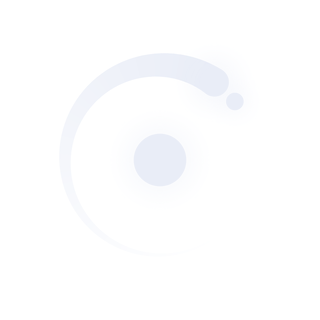
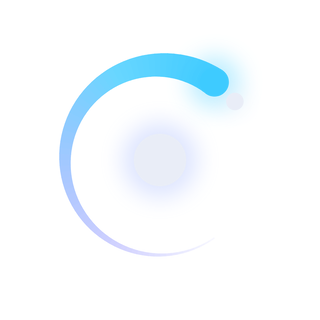
branding: color plymouth watermark; ci: immutable per-build date tags
Plymouth composites the watermark on the same near-black ground as the
wallpapers, so the mono cut was an overcorrection -- the color mark
ships now (GDM keeps mono; its grey ground genuinely fights color art).
Builds additionally tag 44.YYYYMMDD alongside the moving :44/:latest,
Fedora-version style, so a specific nightly can be pinned or rolled
back to by name.

Changed region(s): [[0.1875, 0.1562, 0.75, 0.7812], [0.4062, 0.7812, 0.5312, 0.8125]]

diff --git a/README.md b/README.md
@@ -122,12 +122,12 @@ watermark — `sync-branding.sh` overwrites all of it from `assets/`.
 |---|---|---|
 | Icon theme | `pulsar-mark{,-1024}` | `hicolor/*/apps/pulsar-logo-icon.*` |
 | GDM login | `pulsar-mark-mono-1024.png` | `pixmaps/fedora-gdm-logo.png` @192px |
-| Boot splash | `pulsar-mark-mono-1024.png` | `plymouth/themes/pulsar/watermark.png` @320px |
+| Boot splash | `pulsar-mark-1024.png` (color) | `plymouth/themes/pulsar/watermark.png` @320px |
 | About panel (dark) | `pulsar-mark-mono.svg` + Host Grotesk | `pixmaps/fedora_whitelogo_med.png` @279×80 |
 | About panel (light) | `pulsar-mark-ink.svg` + Host Grotesk | `pixmaps/fedora_logo_med.png` @279×80 |
 
-GDM and plymouth get the **mono** cut: both land on dark surfaces with no
-theme awareness and no contrast guarantee.
+GDM gets the **mono** cut (grey ground, no contrast guarantee); plymouth
+gets the color mark -- its ground is the same near-black as the wallpapers.
 
 Three of these keep Fedora's filenames on purpose. GDM's config and
 gnome-control-center both point at those literal paths, so overwriting one
